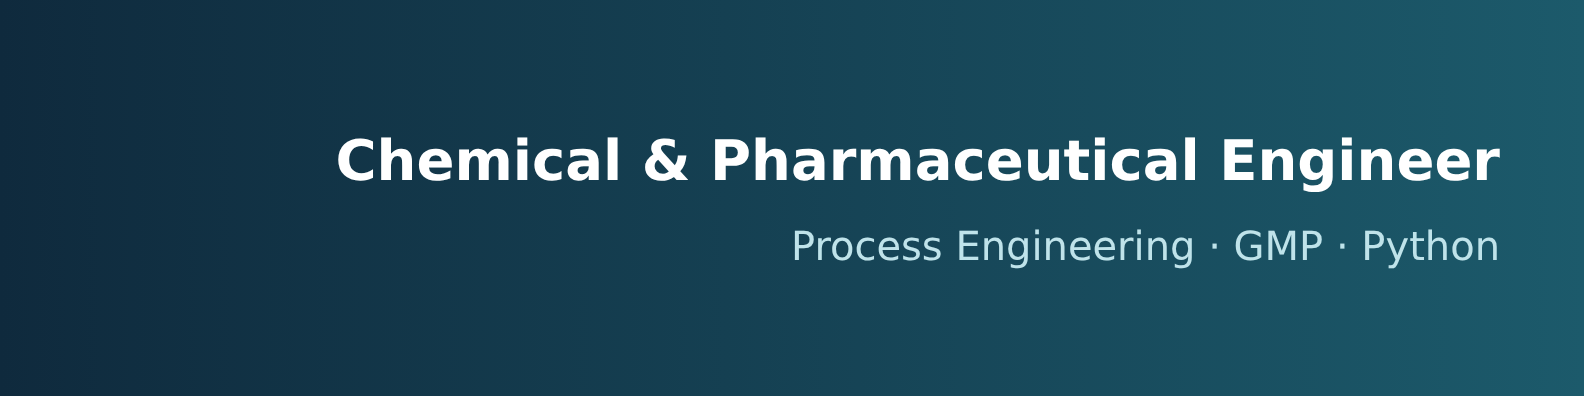
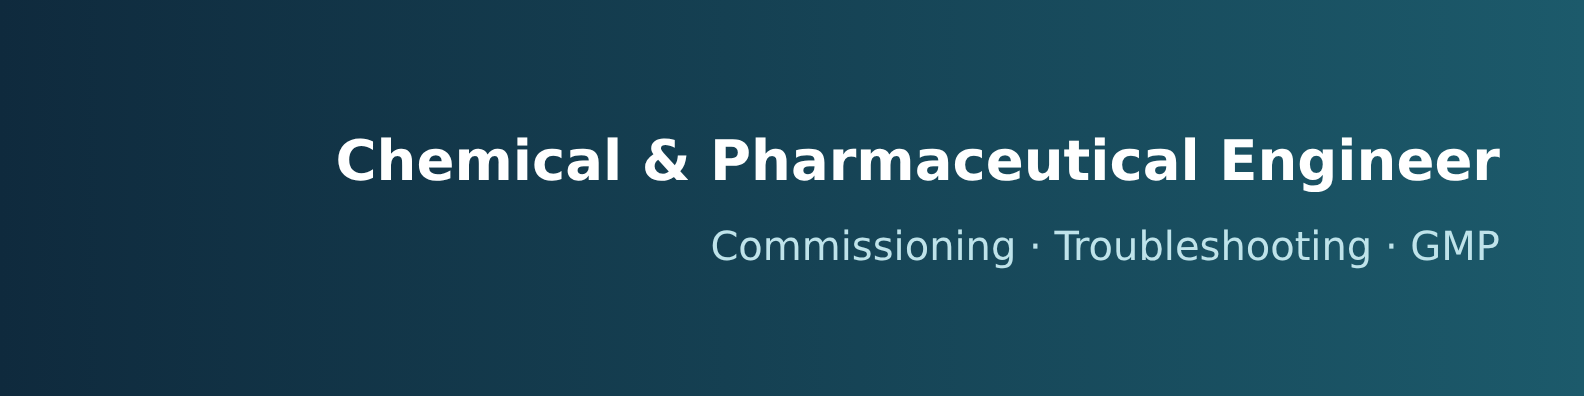
LinkedIn roast round 2: new roasts and profile rewrite
Claude-Session: https://claude.ai/code/session_01N2EehvpHakkTCEsHrm4Rro

Changed region(s): [[0.4331, 0.5758, 0.959, 0.697]]

diff --git a/linkedin-roast-output/roasts.md b/linkedin-roast-output/roasts.md
@@ -1,116 +1,118 @@
-# LinkedIn roast: Ali Obeidat
+# LinkedIn roast, round 2 (profile version 3): Ali Obeidat
 
-Assumed: field = pharmaceutical & chemical engineering (QA/QC, analytical, electrochemical R&D) · level = early career · target = Analytical Development, QC/QA, R&D support in pharma/biotech (taken from your About).
+Assumed: field = process engineering in pharma and biomanufacturing · level = early career · target = Process Engineer roles (your words).
 
-The five readers are one AI model playing five roles, each working alone. They're a structured second opinion, not five real people, and not career advice.
+Five fresh reviewers, each working alone, with no memory of round 1. They are one AI model playing five roles: a structured second opinion, not five real people, and not career advice.
 
----
-
-## 1. Recruiter (score 5/10)
-
-**HEADLINE ROAST:** "Pharmaceutical and Chemical Engineering Graduate | Research Intern in Solid Oxide Cell Development at Bosch"
-The headline sells hydrogen cells, but the About asks for pharma QC/QA. When I search "QC analyst" or "analytical development", nothing here matches. It also says "Graduate" while the About says "student" and the degree ends September 2026, so I can't tell which is true.
-
-**ABOUT ROAST:** "Currently completing my DAAD scholarship exchange at TH Lübeck.I enjoy turning scientific methods into reliable results"
-That exchange ended in March 2026, so the About is out of date by seven months and leaves out the Bosch role completely. The missing spaces after periods look careless on a profile that sells "good documentation practices." Phrases like "strong communication skills" and "strong volunteering background" are claims, and nothing backs them up.
-
-**THREE WEAKEST BULLETS:**
-- "Present findings and discuss results with an interdisciplinary research and engineering team." Every intern does this, so it tells me nothing.
-- "Process, interpret, and document experimental data to evaluate cell performance and operating behaviour." It doesn't name any software, data volume or result.
-- "Investigate unexpected test behaviour, identify potential root causes, and contribute to improving the experimental setup." Saying "contribute to improving" with no root cause found and no fix made means I can't tell if anything improved.
-
-**FIRST 6 SECONDS:** I'd see Bosch and EIS and think energy R&D, then hit an About that asks for pharma QA, and stop. The Hikma entry is a dense block of text with "Officer" as the title, while the text itself calls it an internship. The two AIESEC roles have no descriptions at all. Mixed message and no numbers, so I'd scroll past.
-
-**FIRST FIX:** Pick one target, either electrochemistry/energy R&D or pharma QC/QA. Then rewrite the headline and About for that target, and put the Bosch role and one measurable result first.
+**Score: 5.8 / 10 (round 1 was 5.2).**
 
 ---
 
-## 2. Hiring manager (score 5/10)
+## 1. Recruiter (6/10)
 
-**HEADLINE ROAST:** "Pharmaceutical and Chemical Engineering Graduate | Research Intern in Solid Oxide Cell Development at Bosch"
-This is a degree and an intern title, which tells me what you studied but nothing you can do. "Graduate" also conflicts with the Summary, which says "student", and with a degree that runs to September 2026. Name the skill I'm hiring for, such as EIS on SOFC/SOEC cells or test-bench commissioning, and put it before the job title.
+**HEADLINE ROAST:** "Process & Pharmaceutical Engineer | GMP Manufacturing, Batch Records, CAPA | Electrochemical R&D at Bosch Research | Python (NumPy, pandas) | English, Arabic, German B2"
+This tries to be two people. A pharma recruiter sees "Bosch Research" and "Electrochemical" and thinks hydrogen, and a hydrogen recruiter sees "Batch Records" and thinks QA. Five segments mean none of them lands.
 
-**ABOUT ROAST:** "Currently completing my DAAD scholarship exchange at TH Lübeck."
-Your own Education section says Lübeck ended in March 2026, so this line is about seven months out of date. The Summary also targets "Analytical Development, QC/QA... pharmaceutical/biotech", while your headline and your current job are high-temperature electrochemistry, so I can't tell which seat you want. The missing spaces in "Lübeck.I" and "clearly.I" add to the sense that nobody has reread this.
+**ABOUT ROAST:** "focused on process engineering in pharmaceutical and biomanufacturing"
+Nothing below backs this up: there is no biomanufacturing anywhere and no process engineering role in pharma, only four months of QA. The best story here (the W1/X1 tag fix) is about a hydrogen test bench, so the claimed focus and the evidence point in different directions. There is also a missing space in "data.At Bosch", which looks careless for someone who reviewed records for good documentation practices.
 
 **THREE WEAKEST BULLETS:**
-- "Present findings and discuss results with an interdisciplinary research and engineering team." Every intern attends meetings, so this proves nothing.
-- "Investigate unexpected test behaviour, identify potential root causes, and contribute to improving the experimental setup and measurement reliability." The bullet never says which behaviour, which cause or how much reliability improved, so there's no result to judge.
-- "Team Leader for International Relationships... (no description)" You claim leadership with nothing written under it: no team size and no result.
+- "Support process validation activities within the Solid Oxide Cell Development team." This is the one keyword pharma recruiters search for, and it has no protocol, no IQ/OQ/PQ, no output and no number.
+- "Worked in GMP cleanroom areas and used HPLC as part of quality checks." "Worked in" and "used" describe being present. They don't show anything you analyzed, released or caught.
+- "Built relationships with partner organizations from different countries and cultures to open new exchange opportunities." It has no count and no result, and the bullet above it already says the same thing with numbers.
 
-**FIRST 6 SECONDS:** I'd skip the About and go straight to the Bosch bullets to look for a number, such as cells tested, hours on the bench or a drop in measurement error. I wouldn't find one. I'd then see that the Hikma entry is one dense paragraph and that its title, "Officer", conflicts with the "internship" described in its own text, and I'd move on.
+**FIRST 6 SECONDS:** I search "process engineer GMP". The headline matches, so I glance at Top Skills: "Test Engineering; Electrochemical Characterization; Research and Development (R&D)". None of those are GMP, validation or CAPA. Then I see the current role is a fuel-cell internship and the only pharma job lasted 4 months. I save the profile as "maybe, junior" and don't send a message yet.
 
-**FIRST FIX:** Rewrite the Bosch entry so each bullet ends with a concrete result, for example: "Commissioned new high-temperature test bench; ran EIS/I-V on X SOEC cells at Y °C; traced Z artifact to gas-supply issue, cutting noise by N%."
+**FIRST FIX:** Make the profile point at pharma. Change Top Skills to GMP, Process Validation and CAPA. Then rewrite the Bosch validation bullet with what you actually validated and how, so the pharma keyword has real evidence behind it.
 
 ---
 
-## 3. Founder (score 5/10)
+## 2. Hiring manager (6/10)
 
-**HEADLINE ROAST:** "Pharmaceutical and Chemical Engineering Graduate | Research Intern in Solid Oxide Cell Development at Bosch". The headline has two labels and no claim. It also pulls in two directions: pharma degree, hydrogen fuel-cell job. I can't tell which one you want to be hired for.
+**HEADLINE ROAST:** "Process & Pharmaceutical Engineer | GMP Manufacturing, Batch Records, CAPA | Electrochemical R&D at Bosch Research | Python (NumPy, pandas) | English, Arabic, German B2"
+The title "Process & Pharmaceutical Engineer" isn't backed by any role on the page. The record shows a 4-month QA officer job and a current internship. The headline packs five lanes into one line, so I can't tell whether you're applying to my GMP line or to a hydrogen lab.
 
-**ABOUT ROAST:** "Currently completing my DAAD scholarship exchange at TH Lübeck." By your own Education section, that exchange ended in March 2026, so the About is out of date. The section then says you want "QC/QA... pharmaceutical/ biotech" roles, which contradicts the Bosch electrochemistry work right below it. The lines "strong communication skills" and "initiative and responsibility" claim traits without proof, and missing spaces like "Lübeck.I" undercut the communication claim.
+**ABOUT ROAST:** "I also support process validation work on the team."
+Process validation is the one thing that would sell you to a pharma process team, and it gets the vaguest sentence on the page: no protocol, no IQ/OQ/PQ, nothing you produced. The About also opens with "pharmaceutical and biomanufacturing", but nothing on the page shows any biomanufacturing. "data.At" is missing a space, which is a careless slip from someone who reviewed records for good documentation practice.
 
 **THREE WEAKEST BULLETS:**
-- "Investigate unexpected test behaviour, identify potential root causes, and contribute to improving the experimental setup." "Potential" and "contribute" hedge it twice, so I can't tell what you found or what you fixed.
-- "Process, interpret, and document experimental data to evaluate cell performance and operating behaviour." This is just the job description: no data volume, no conclusion, and no decision your analysis changed.
-- "Present findings and discuss results with an interdisciplinary research and engineering team." Being in a meeting is not a result.
+- "Support process validation activities within the Solid Oxide Cell Development team." This says you were nearby, not what you validated or wrote.
+- "Worked in GMP cleanroom areas and used HPLC as part of quality checks." Being in a cleanroom and touching an HPLC tells me nothing: which assays, how many, what you found?
+- "Performed in-process quality checks and line monitoring under GMP, confirming adherence to approved procedures and specifications." This is copied job-description language with no count, no catch and no result.
 
-**FIRST 6 SECONDS:** I'd skip to Bosch, because a test bench being commissioned is the only thing here that sounds like shipping. Then I'd look for one number: cells tested, uptime of the bench, hours of measurement saved. There are none, so I'd scroll down and find two empty AIESEC entries. I'd also notice Hikma is titled "Quality Assurance Officer" while the text calls it an "internship", and a title mismatch makes me doubt the rest.
+**FIRST 6 SECONDS:** I check the dates. The degree finishes in 2026, the pharma work lasted 4 months, and the current job is an internship. Then Top Skills reads "Test Engineering; Electrochemical Characterization; R&D", which has no GMP in it, so the profile argues against its own headline.
 
-**FIRST FIX:** Rewrite the test-bench bullet as one result with a number, such as what you got running, by when, and what it made possible. For example: "Brought new high-temperature bench from install to first valid EIS data in X weeks; traced [fault] to [cause], cutting measurement noise by Y%."
+**FIRST FIX:** Rewrite the headline to say what you are and lead with proof: "Junior Process Engineer, Pharma/GMP | 7 CAPAs closed, 40 batch records reviewed at Hikma | Root-caused and fixed test-bench control fault at Bosch Research". The W1/X1 fault-tracing bullet is the strongest day-one evidence on the page, and right now it's buried.
 
 ---
 
-## 4. Expert in the field (score 5/10)
+## 3. Founder (6/10)
 
-**HEADLINE ROAST:** "Pharmaceutical and Chemical Engineering Graduate | Research Intern in Solid Oxide Cell Development at Bosch"
-The headline lists a degree and an internship, but no skill. Nobody searches for "Graduate." It also points two ways at once: pharma on the left, hydrogen electrochemistry on the right.
+**HEADLINE ROAST:** "Process & Pharmaceutical Engineer | GMP Manufacturing, Batch Records, CAPA | Electrochemical R&D at Bosch Research | Python (NumPy, pandas) | English, Arabic, German B2"
+That's five segments selling two different careers, and none of them shows a result. "GMP Manufacturing" oversells four months in QA checking batch paperwork, and the Top Skills underneath ("Test Engineering", "R&D") point somewhere else again. The languages are filler in the most valuable line on the page.
 
-**ABOUT ROAST:** "Currently completing my DAAD scholarship exchange at TH Lübeck."
-Your own Education section says Lübeck ended in March 2026, and you have been at Bosch since April. So the opening line of the summary is out of date, and it still calls you a "student" while the headline says "Graduate." The summary never mentions SOFC, SOEC or impedance work, which is your strongest material. Small but visible: "Lübeck.I" is missing a space.
+**ABOUT ROAST:** "I'm a chemical and pharmaceutical engineer focused on process engineering in pharmaceutical and biomanufacturing."
+Nothing on the profile shows biomanufacturing, and the current job is hydrogen cells at 800 °C. You open with a focus you can't back up and leave the bench repair, your one story that sells you, for later. "data.At" is missing a space, right in the opening lines.
 
 **THREE WEAKEST BULLETS:**
-- "electrochemical impedance spectroscopy, polarization curves, and current-voltage measurements": a polarization curve is a current-voltage measurement, so listing both makes the bullet look padded, and any electrochemist will notice.
-- "Investigate unexpected test behaviour, identify potential root causes": you give no example, such as a leak, a contact resistance problem or drift, so it reads like a job ad.
-- "Present findings and discuss results with an interdisciplinary research and engineering team.": every intern does this, so it adds nothing.
+- "Support process validation activities within the Solid Oxide Cell Development team." It doesn't say what was validated or what came out of it, and "support" usually means nothing you can name.
+- "Worked in GMP cleanroom areas and used HPLC as part of quality checks." Being in a room and using an instrument is not a result.
+- "Built relationships with partner organizations from different countries and cultures to open new exchange opportunities." The bullet above already gives the real number (12 host entities), so this one says the same thing with less.
 
-**FIRST 6 SECONDS:** I would check the Hikma entry, because the title says "Quality Assurance Officer" and the first line says "internship." That gap makes me doubt the rest. Then I would see a solid block of text, with no batch counts, no CAPA numbers and no dosage form named, and move on.
+**FIRST 6 SECONDS:** I'd skip the headline and About and go straight to Bosch bullet two: "Restored temperature control on a test bench that had produced no results for 5 runs..." It is the only line that shows you found a broken thing, fixed it yourself and got results flowing again. That's the person I'm hiring. Then I'd check whether the "around 60 cells" ever led to a finding or decision, and it never says.
 
-**FIRST FIX:** Rewrite the summary for who you are now: a graduate doing EIS and test-bench work on SOFC/SOEC cells at Bosch, plus GMP QA experience at Hikma. Then add hard numbers to the bullets: operating temperatures, how many cells you tested, what you used to analyse the impedance data (for example equivalent-circuit or DRT fitting), and how many batch records you reviewed.
+**FIRST FIX:** Put the test bench repair in the headline and the first sentence of About, and cut the language and Python lists. For example: "Process Engineer | Got a stalled test bench at Bosch Research recording results again | GMP QA, CAPA closure."
 
 ---
 
-## 5. Peer (score 6/10)
+## 4. Expert in process engineering for pharma and biomanufacturing (5/10)
 
-**HEADLINE ROAST:** "Pharmaceutical and Chemical Engineering Graduate | Research Intern in Solid Oxide Cell Development at Bosch"
-The Bosch part is the strongest thing on the page. "Graduate" is just a label, and the headline never says what you can do (EIS, test benches, GMP). The About section then asks for QC/QA jobs, so the headline is selling something different from what the profile asks for.
+**HEADLINE ROAST:** "Process & Pharmaceutical Engineer | GMP Manufacturing, Batch Records, CAPA | Electrochemical R&D at Bosch Research"
+The GMP claim rests on 4 months of QA document review in 2024. That is QA work, not manufacturing or process engineering. Your Top Skills (Test Engineering, Electrochemical Characterization) don't match the headline either, so the profile pulls two ways.
 
-**ABOUT ROAST:** "Currently completing my DAAD scholarship exchange at TH Lübeck.I enjoy turning scientific methods into reliable results"
-Your own Education section says Lübeck ended in March 2026, so the About is out of date and still calls you a "student". Two sentences are glued together with no space ("Lübeck.I", "responsibility.Open"), which hurts a profile that claims "good documentation practices". It also never mentions hydrogen or SOFC, which is your current job.
+**ABOUT ROAST:** "focused on process engineering in pharmaceutical and biomanufacturing."
+Nothing else on the profile mentions biomanufacturing: no bioreactor, upstream or downstream work, no CIP/SIP and no single-use systems. A hiring manager in that field will notice it's missing straight away. Also, "data.At" and "results.Before" are missing spaces, which looks careless on a profile that sells good documentation practice.
 
 **THREE WEAKEST BULLETS:**
-- "Investigate unexpected test behaviour, identify potential root causes, and contribute to improving the experimental setup and measurement reliability." It never says which behaviour, which cause you found, or what got more reliable.
-- "Present findings and discuss results with an interdisciplinary research and engineering team." Every intern has team meetings, so this tells me nothing.
-- "Process, interpret, and document experimental data to evaluate cell performance and operating behaviour." It lists three verbs but gives no tool, no method (DRT? Python?) and no result.
+- "Support process validation activities within the Solid Oxide Cell Development team." Process validation is a GMP lifecycle term, it has no clear meaning on an R&D test bench, and "support" doesn't say what you did.
+- "Worked in GMP cleanroom areas and used HPLC as part of quality checks." Being in a room and using an instrument isn't an achievement, and HPLC is usually a QC task, so it's unclear what you actually ran.
+- "Followed 7 CAPA actions to closure." Tracking a CAPA isn't owning one: there's no root cause, no effectiveness check and no result.
 
-**FIRST 6 SECONDS:** I'd see Bosch Research, then go straight to Hikma. There I'd find one 200-word block of text under the title "Quality Assurance Officer", and its first line calls the job an "internship". I'd stop trusting the job titles and scroll away.
+**FIRST 6 SECONDS:** I'd look from the headline ("Pharmaceutical Engineer") to the current role (SOFC intern) to the Top Skills (electrochemistry) and ask which job you want. Then I'd check the dates and find the GMP experience is one 4-month stint. The W1/X1 bullet is the most convincing thing here, but a GMP reader will ask whether you replaced a failed setpoint with an actual-value tag without change control.
 
-**FIRST FIX:** Choose one direction, hydrogen/electrochemistry or pharma QA, and make the headline and About say the same thing. Then turn the Hikma paragraph into 3 or 4 bullets with numbers (how many batch records, which lines, how many CAPAs), and use the same title the text uses.
+**FIRST FIX:** Rewrite the headline to match the evidence. For example: "Chemical & Pharmaceutical Engineering graduate (2026) | Test-bench commissioning & troubleshooting at Bosch Research | GMP QA experience at Hikma". Then change the Top Skills to match it.
 
-I'd copy this: the Bosch bullet about commissioning the test bench "across software, hardware, electrical connections, gas supply systems". It's specific and believable. I'd trust the profile on substance but not on detail. AIESEC has two roles and no description at all, so they read as filler.
+---
+
+## 5. Peer (6/10)
+
+**HEADLINE ROAST:** "Process & Pharmaceutical Engineer | GMP Manufacturing, Batch Records, CAPA | Electrochemical R&D at Bosch Research | Python (NumPy, pandas) | English, Arabic, German B2"
+The title doesn't match the profile. The current job is "Research Intern" on solid oxide cells, and "GMP Manufacturing" turns out to be four months of QA record checks, not running production. No pharma recruiter searches for "NumPy, pandas", and five segments make it hard to see the point.
+
+**ABOUT ROAST:** "I also support process validation work on the team."
+This is the only line that ties Bosch to the pharma target, and it says nothing: which protocol, what you wrote, and whether it was IQ/OQ/PQ. A QA reader will also notice that validating a lab bench is not GMP process validation. The W1/X1 tag story is the best thing here and I'd copy it, but "5 random runs" makes the failure sound like bad luck instead of a fault you found.
+
+**THREE WEAKEST BULLETS:**
+- "Support process validation activities within the Solid Oxide Cell Development team." This is the same empty claim as in the About, with no output, document or number.
+- "Worked in GMP cleanroom areas and used HPLC as part of quality checks." Being in a room isn't an achievement, and "used HPLC" doesn't say which assay or whether you ran it or only read results.
+- "Performed in-process quality checks and line monitoring under GMP, confirming adherence to approved procedures and specifications." This is the job description pasted in, and every QA officer on that line could claim it.
+
+**FIRST 6 SECONDS:** I'd compare the headline with the first job title. "Pharmaceutical Engineer" next to "Research Intern – Solid Oxide Cell Development" sends me looking for the pharma part. Then Top Skills ("Test Engineering; Electrochemical Characterization") tells me this is a fuel-cell lab profile.
+
+**FIRST FIX:** Rewrite the headline so it only says what's true: "Pharmaceutical & Chemical Engineer (BASc 2026) | GMP QA at Hikma: 40 batch records, 7 CAPAs closed | Test-bench commissioning at Bosch Research | German B2". Then change Top Skills to match it.
 
 ---
 
 ## What all five agree on
 
-1. **The headline and About point in two different directions.** The headline and current job are hydrogen electrochemistry, but the About asks for pharma QC/QA jobs. (5 of 5)
-2. **The About is out of date.** It says you're "currently completing" the Lübeck exchange (which ended March 2026), calls you a "student" while the headline says "Graduate", and never mentions Bosch. (5 of 5)
-3. **There isn't a single number anywhere.** No cells tested, batch records reviewed, CAPAs closed or improvement measured. (5 of 5)
-4. **Two Bosch bullets are filler.** "Present findings…" is just meetings, and "Investigate… potential root causes… contribute to improving" names no cause and no fix. (5 of 5)
-5. **Typos undercut a profile that sells documentation skills.** Spaces are missing after periods: "Lübeck.I", "responsibility.Open". (5 of 5)
-6. **The Hikma entry has a title mismatch and is a wall of text.** The title says "Officer" but the text says "internship", all in one dense paragraph. (5 of 5)
-7. **The AIESEC roles are empty.** Leadership is claimed, but nothing is written under either role. (4 of 5)
+1. **The headline overclaims and points two ways.** "Process Engineer" and "GMP Manufacturing" go further than 4 months of QA and an internship support, and five segments sell two careers. (5 of 5)
+2. **"Process validation" is the vaguest line on the page.** It doesn't say what you validated, how, or what you produced, and it's the keyword pharma cares about most. (5 of 5)
+3. **"Worked in cleanroom areas and used HPLC" only says you were there.** It names no test and no result. (5 of 5)
+4. **Top Skills contradict the headline.** "Test Engineering, Electrochemical Characterization, R&D" have no GMP or validation. (4 of 5)
+5. **"Biomanufacturing" has no evidence behind it.** (4 of 5)
+6. **Missing spaces between sentences in the About**, such as "data.At" and "closure.I". (4 of 5)
+7. **The W1/X1 bench fix is your best story and it's buried.** Move it up front. (3 of 5)
 
-**Average score:** 5.2 / 10. **Lowest:** 5. Four roasters tied there (recruiter, hiring manager, founder, expert). The peer gave a 6.
+**Average:** 5.8 / 10. **Lowest:** 5, from the process engineering expert. The others gave 6.
 
-Even so, your raw material is good. A Bosch Research role doing EIS work, real GMP QA experience and a DAAD scholarship are genuine strengths. The problem is how the profile is written, not what you've done.
+**What improved since round 1:** No reviewer said the profile is out of date or has no numbers anymore. Every one of them trusted your numbers (40 batch records, 7 CAPAs, 60 cells) because they're modest and specific. What's left is mostly honest framing: claim exactly what you've done, and lead with the bench fix.

diff --git a/linkedin-roast-output/new-profile.md b/linkedin-roast-output/new-profile.md
@@ -1,28 +1,28 @@
-# New LinkedIn profile: Ali Obeidat (ready to paste)
+# New LinkedIn profile, round 2: Ali Obeidat
 
-Every line below comes from your profile or your answers. There are no blanks left to fill in.
+Built from your current profile (version 3) and the round-2 roasts. The main change is to **claim exactly what you've done** and **lead with the test-bench fix**. Your target stays process engineering. It now appears as the direction you're heading, not a title you've already held.
 
-**Direction:** Process engineering, with pharma manufacturing and biomanufacturing as your home industry. Your Bosch work is the proof that you can commission equipment, fix faults and analyse data, which is what process engineers do every day.
+There are **3 small gaps** marked [ADD …]. Answer the questions at the bottom and I'll fill them in.
 
 ---
 
 ## 1. Headline
 
-**Before:** Pharmaceutical and Chemical Engineering Graduate | Research Intern in Solid Oxide Cell Development at Bosch
+**Before:** Process & Pharmaceutical Engineer | GMP Manufacturing, Batch Records, CAPA | Electrochemical R&D at Bosch Research | Python (NumPy, pandas) | English, Arabic, German B2
 
-**New (176 characters), paste this:**
+**New (176 characters):**
 ```
-Chemical & Pharmaceutical Engineer | Process Engineering, Biomanufacturing | GMP QA at Hikma | Test-Bench Commissioning at Bosch Research | Aspen Plus, HPLC, Python | German B2
-```
-
-**Alternate A, pharma-first (168 characters):**
-```
-Process & Pharmaceutical Engineer | GMP Manufacturing, Batch Records, CAPA | Electrochemical R&D at Bosch Research | Python (NumPy, pandas) | English, Arabic, German B2
+Chemical & Pharmaceutical Engineer (BASc 2026) | Test-Bench Commissioning & Troubleshooting at Bosch Research | GMP QA at Hikma: 40 Batch Records, 7 CAPAs | Process Engineering
 ```
 
-**Alternate B, energy/hydrogen (154 characters):**
+**Alternate A, pharma-first (165 characters):**
 ```
-Chemical Engineer | SOFC/SOEC Testing at Bosch Research | EIS, Test-Bench Commissioning, Python Data Analysis | Hydrogen & Process Engineering | German B2
+Pharmaceutical & Chemical Engineer (BASc 2026) | GMP QA at Hikma: 40 Batch Records, 7 CAPAs, Cleanroom, HPLC | Test-Bench Commissioning at Bosch Research | German B2
+```
+
+**Alternate B, energy/hydrogen (158 characters):**
+```
+Chemical Engineer (BASc 2026) | SOFC/SOEC Testing at Bosch Research: 60 Cells at 800 °C, EIS | Test-Bench Commissioning & Troubleshooting | Python | German B2
 ```
 
 The limit is 220 characters. If LinkedIn's counter shows a different number, trust the counter.
@@ -31,77 +31,88 @@ The limit is 220 characters. If LinkedIn's counter shows a different number, tru
 
 ## 2. About
 
-**New (1,608 characters, limit 2,600), paste this:**
+**Important:** in the LinkedIn editor, press **Enter twice** between paragraphs. Your PDF shows sentences glued together ("data.At", "closure.I"), and four of the five reviewers noticed.
+
+**New (1,458 characters, limit 2,600):**
 ```
-I'm a chemical and pharmaceutical engineer focused on process engineering in pharmaceutical and biomanufacturing. I like getting equipment running, finding out why a process fails, and proving the fix with data.
+I'm a chemical and pharmaceutical engineer (BASc 2026) who gets equipment running, finds out why a process fails, and proves the fix with data. I'm looking for process engineering roles in pharmaceutical and chemical manufacturing.
 
-At Bosch Research I test solid oxide cells (SOFC/SOEC) for hydrogen production. I have characterized around 60 cells at 800 °C using electrochemical impedance spectroscopy and polarization curves, and I analyze the results with my own Python tools (NumPy, pandas). I also support process validation work on the team. I spent two months commissioning a new high-temperature test bench through hardware problems. On another bench, 5 separate runs gave no results because the temperature was not regulating. I traced it to a set-value tag that had stopped working and configured a spare tag based on the actual value instead, so the bench now runs safely and records every result.
+At Bosch Research, a test bench had produced no results in 5 separate runs because the temperature was not regulating. I traced the fault to a set-value (W1) tag that had stopped working and configured a spare tag based on the actual value (X1), so the bench now runs safely and records every result. I also spent 2 months commissioning a new high-temperature test bench through hardware problems, have characterized around 60 solid oxide cells (SOFC/SOEC) at 800 °C with electrochemical impedance spectroscopy, and analyze the data with my own Python tools (NumPy, pandas). [ADD: one sentence on what you validate, e.g. "I also validate … by …"]
 
-Before Bosch, I worked in Quality Assurance at Hikma Pharmaceuticals on a GMP penicillin tablet line: in-process checks, review of around 40 batch records for good documentation practices and data integrity, escalating deviations, and following 7 CAPA actions to closure. There I also worked in cleanroom areas and used HPLC.
+At Hikma Pharmaceuticals I worked in GMP Quality Assurance on a penicillin tablet line: I reviewed around 40 batch records for good documentation practices and data integrity, tracked 7 CAPA actions to closure, and carried out in-process checks in cleanroom areas, including HPLC testing.
 
-I hold a Bachelor's in Pharmaceutical and Chemical Engineering from German Jordanian University (2026), with a DAAD scholarship exchange in Chemistry at TH Lübeck. During my studies I used Aspen Plus for process simulation. I work in English and Arabic, and my German is B2 certified. At AIESEC in Jordan, I led a team of 5 that grew our partner network to 12 host entities in 7 countries.
+I studied at German Jordanian University with a DAAD scholarship exchange at TH Lübeck and used Aspen Plus for process simulation. I work in English, Arabic and German (B2 certified). At AIESEC in Jordan I led a team of 5 that grew our partner network to 12 host entities in 7 countries.
 ```
 
-### Keywords and why they're there
+**What changed:**
+- **"Biomanufacturing" is out of the About,** because nothing on the page backs it up yet (4 of 5 reviewers). Keep it in your Open to Work job titles instead.
+- **The bench fix now comes second, right after the opening.** Three reviewers called it your best story.
+- **"5 random runs" is now "5 separate runs"**, so it reads as a fault you found, not bad luck.
+
+### Keywords
 
 | Keyword | Where | Why it helps |
 |---|---|---|
-| Process engineering | Headline, About sentence 1 | The job title you're targeting |
-| Biomanufacturing | Headline, About | A growing, well-paid pharma field |
-| Pharmaceutical manufacturing | About | Matches pharma process job ads |
+| Process engineering | Headline, About sentence 2 | The job title you're targeting, now framed as your goal |
+| Commissioning | Headline, About, Bosch | Core process engineering task, and backed by real work |
+| Troubleshooting / root cause | Headline, Bosch | What hiring managers said they'd hire you for |
 | GMP | Headline, About, Hikma | Required filter for pharma jobs |
-| Batch records | About, Hikma | Daily task in pharma production and QA |
-| CAPA / deviations | About, Hikma | Standard GMP terms recruiters search |
+| Batch records | Headline, About, Hikma | Daily task in pharma production and QA |
+| CAPA | Headline, About, Hikma | Standard GMP term |
 | Data integrity | About, Hikma | Compliance term in most pharma job ads |
-| Commissioning | Headline, About, Bosch | A core process engineering task |
-| Electrochemical impedance spectroscopy (EIS) | About, Bosch | Specific method; signals real lab depth |
-| Aspen Plus | About, headline, Education | The standard process simulation tool; process engineering ads often ask for it |
-| HPLC | About, headline, Hikma | Key analytical method in pharma QC and process development |
-| Process validation | About, Bosch | A core GMP task for pharma process engineers |
-| Cleanroom | About, Hikma | Required for sterile and biomanufacturing roles |
-| Python, NumPy, pandas | Headline, About, Bosch | Data skills that set you apart from other engineers |
-| German B2 | Headline, About | Many German employers filter on language level |
+| Cleanroom, HPLC | About, Hikma | Pharma QC and production terms |
+| Aspen Plus | About, Skills | Standard process simulation tool |
+| Electrochemical impedance spectroscopy | About, Bosch | Specific method; shows real lab depth |
+| Python | About, Bosch | Data skills that set you apart |
 
 LinkedIn does not publish how it ranks profiles. These keywords match what recruiters type, but they can't promise rankings or interviews.
 
-**Add only if true:** SAP, P&IDs, Six Sigma, bioreactors, upstream/downstream processing.
+**Add only if true:** IQ/OQ/PQ, change control, SOP writing, bioreactors, upstream/downstream processing, CIP/SIP, SAP, P&IDs.
 
 ---
 
 ## 3. Experience
 
-### Bosch Research: Research Intern – Solid Oxide Cell Development · April 2026 – Present · Renningen, Germany
+### Bosch Research: Research Intern – Solid Oxide Cell Development · April 2026 – Present
+**Delete the old intro paragraph** ("At Bosch, I am part of…"). The bullets say the same thing better.
 ```
-Solid Oxide Cell Development team: high-temperature electrochemical systems for hydrogen production and energy conversion.
-• Characterize SOFC and SOEC single cells with electrochemical impedance spectroscopy and polarization curves, testing around 60 cells at 800 °C.
-• Restored temperature control on a test bench where 5 separate runs had produced no results, tracing the fault to a failed set-value (W1) tag and configuring a spare tag based on the actual value (X1), so tests now run safely with all results recorded.
+• Restored temperature control on a test bench where 5 separate runs had produced no results, tracing the fault to a failed set-value (W1) tag and configuring a spare tag based on the actual value (X1); tests now run safely with every result recorded.
 • Commissioned a new high-temperature test bench over 2 months, working through hardware problems across software, electrical connections, gas supply and high-precision measurement equipment.
-• Support process validation activities within the Solid Oxide Cell Development team.
+• Characterize SOFC and SOEC single cells with electrochemical impedance spectroscopy and polarization curves, testing around 60 cells at 800 °C.
+• Validate [ADD: what, e.g. test procedures / the new bench / a measurement method] by [ADD: how], producing [ADD: protocol, report or result].
 • Built Python tools with NumPy and pandas to analyze and plot cell performance data, and present results to an interdisciplinary research and engineering team.
 ```
+The fix moved to the top. It's the bullet every reviewer liked.
 
-### Hikma Pharmaceuticals: Quality Assurance Officer (Internship) · July 2024 – October 2024 · Amman, Jordan
+### Hikma Pharmaceuticals: Quality Assurance Officer · July 2024 – October 2024
 ```
-• Reviewed around 40 batch records for penicillin tablets, checking completeness, accuracy, good documentation practices and data integrity before QA review and batch disposition.
-• Performed in-process quality checks and line monitoring under GMP, confirming adherence to approved procedures and specifications.
-• Followed 7 CAPA actions to closure, documenting actions, tracking status and coordinating with stakeholders.
-• Worked in GMP cleanroom areas and used HPLC as part of quality checks.
-• Escalated deviations, line events and quality observations with Production teams, recording each in a traceable way.
+• Reviewed around 40 batch records for penicillin tablets for completeness, accuracy, good documentation practices and data integrity ahead of QA review and batch disposition.
+• Tracked 7 CAPA actions to closure, documenting actions, following up on status and coordinating with stakeholders.
+• Performed [ADD: which HPLC test, e.g. assay or dissolution] by HPLC and in-process checks in GMP cleanroom areas on the penicillin tablet line.
+• Monitored the production line under GMP, escalating deviations, line events and quality observations to Production and recording each in a traceable way.
 ```
+- The in-process checks bullet and the escalation bullet were **merged**. On its own, the first one read like a copied job description.
 
-### AIESEC in Jordan: Team Leader for International Relationships · February 2022 – August 2022 · Amman
+### AIESEC in Jordan: Team Leader for International Relationships · February 2022 – August 2022
 ```
 • Led a team of 5 that grew the partner network to 12 host entities across 7 countries.
-• Built relationships with partner organizations from different countries and cultures to open new exchange opportunities.
 ```
+- **Removed:** "Built relationships with partner organizations…". It repeated the bullet above with no numbers (2 reviewers).
 
-### AIESEC in Jordan: Marketing Team Member · August 2021 – February 2022 · Amman
-Leave this one with no description. A short, empty entry is better than a vague one.
+### AIESEC in Jordan: Marketing Team Member · August 2021 – February 2022
+Leave empty.
 
 ---
 
-## 4. Other quick fixes
-- **Education:** add "2026" as your graduation year, and under German Jordanian University add "Process simulation with Aspen Plus" in the description or as a linked skill, and set the TH Lübeck entry to say "DAAD scholarship exchange".
-- **Skills:** add Process Engineering, Aspen Plus, HPLC, Process Validation, Cleanroom, GMP, Python, Commissioning, Electrochemical Impedance Spectroscopy, German.
-- **Languages section:** add German – Professional working proficiency (B2), Arabic – Native, English – Full professional.
-- **Open to Work:** set it to "Process Engineer", "Manufacturing Engineer" and "Biomanufacturing" job titles.
+## 4. Other fixes (these matter this round)
+- **Top Skills (4 of 5 reviewers):** in Skills, pin these as your top 3: **GMP**, **Root Cause Analysis**, **Commissioning**. Add Aspen Plus, HPLC, CAPA, Python, Electrochemical Impedance Spectroscopy below them. Move "Test Engineering" and "Electrochemical Characterization" down.
+- **Education:** add "Process simulation with Aspen Plus" under German Jordanian University.
+- **Languages section:** German (B2), Arabic (Native), English (Full professional).
+- **Open to Work:** Process Engineer, Manufacturing Engineer, Biomanufacturing.
+
+---
+
+## Questions for you (answer these and I'll fill in the gaps)
+1. **Process validation at Bosch:** what exactly did you validate (a test procedure, the new bench, a measurement method?), how did you do it, and what came out of it (a protocol, a report, sign-off)?
+2. **HPLC at Hikma:** which test did you run, for example assay, dissolution or content uniformity? Did you run the samples yourself, or review the results?
+3. **The W1/X1 fix:** was the new tag set up with your supervisor's approval or a change request? A GMP expert said a pharma interviewer will ask, so have the answer ready even if it doesn't go on the profile.
